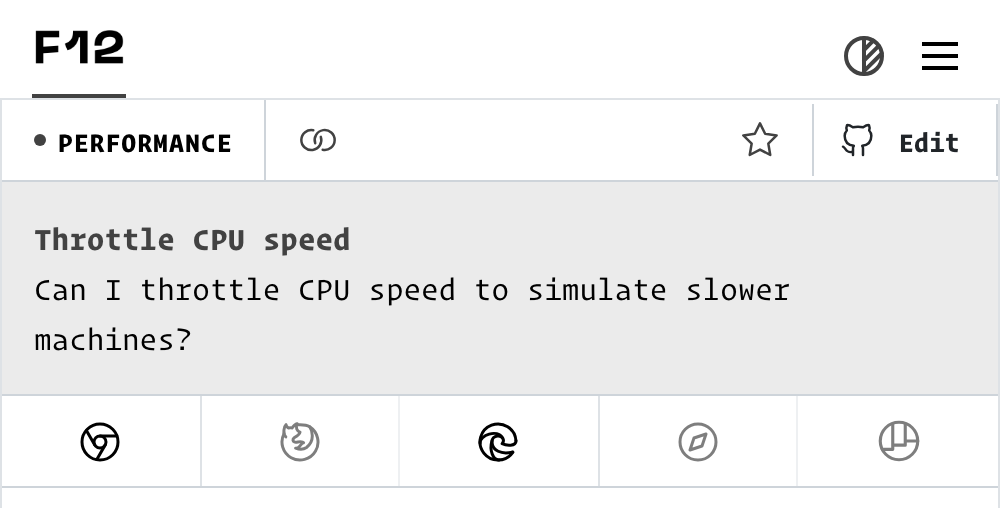
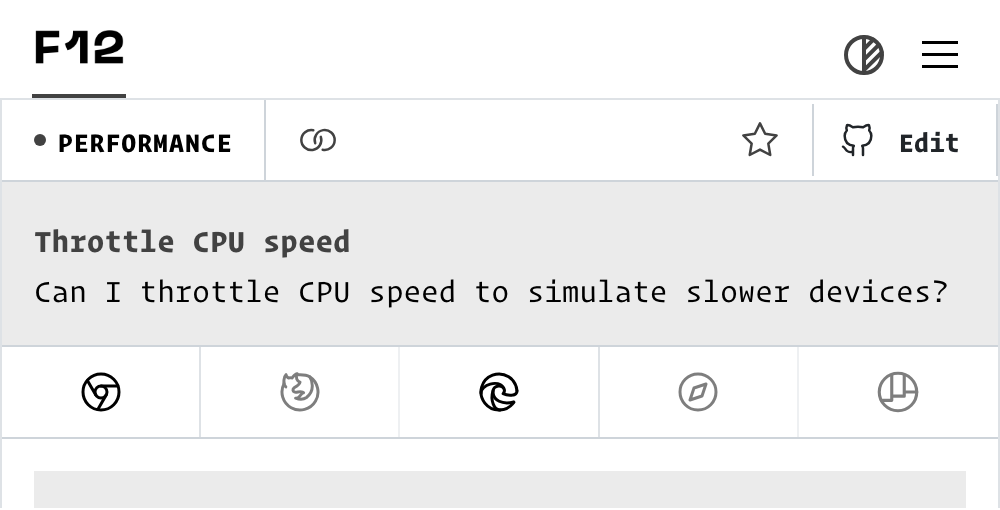
added image/video

diff --git a/README.md b/README.md
@@ -2769,13 +2769,16 @@ Can I target iframes while debugging from the Console panel?
 Can I test the Back/Forward cache of a web app?
 
 ## Throttle CPU speed
-Can I throttle CPU speed to simulate slower machines?
+Can I throttle CPU speed to simulate slower devices?
 
 [Chrome](https://canidev.tools/throttle-cpu-speed/chrome): 
 1. In the **Performance** panel, open **Settings** using the gear icon and select the "CPU: No throttling" dropdown to choose "4x/6x slowdown".
 
 [Edge](https://canidev.tools/throttle-cpu-speed/edge): 
-1. In the **Performance** panel, open **Settings** using the gear icon and select the "CPU: No throttling" dropdown to choose "4x/6x slowdown".
+- In the **Performance** panel, open **Settings** using the gear icon and select the "CPU: No throttling" dropdown to choose "4x/6x slowdown."
+
+
+![](https://res.cloudinary.com/canidevtools/image/upload/l_watermark,w_200,o_5/throttle-cpu-speed-edge-v1.png)
 
 ## Throttle CSS animation speed
 Can I throttle CSS animation playback speed?
